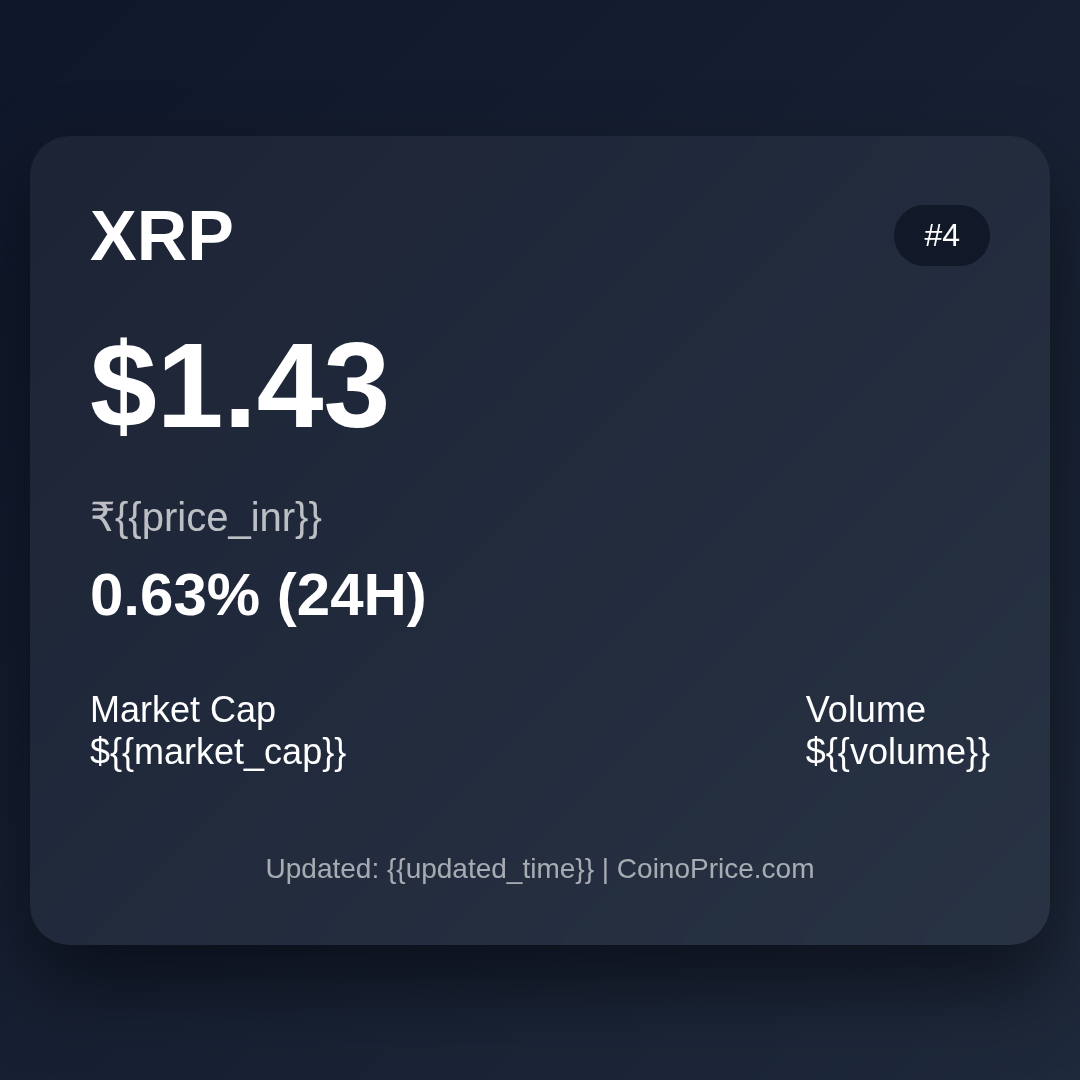
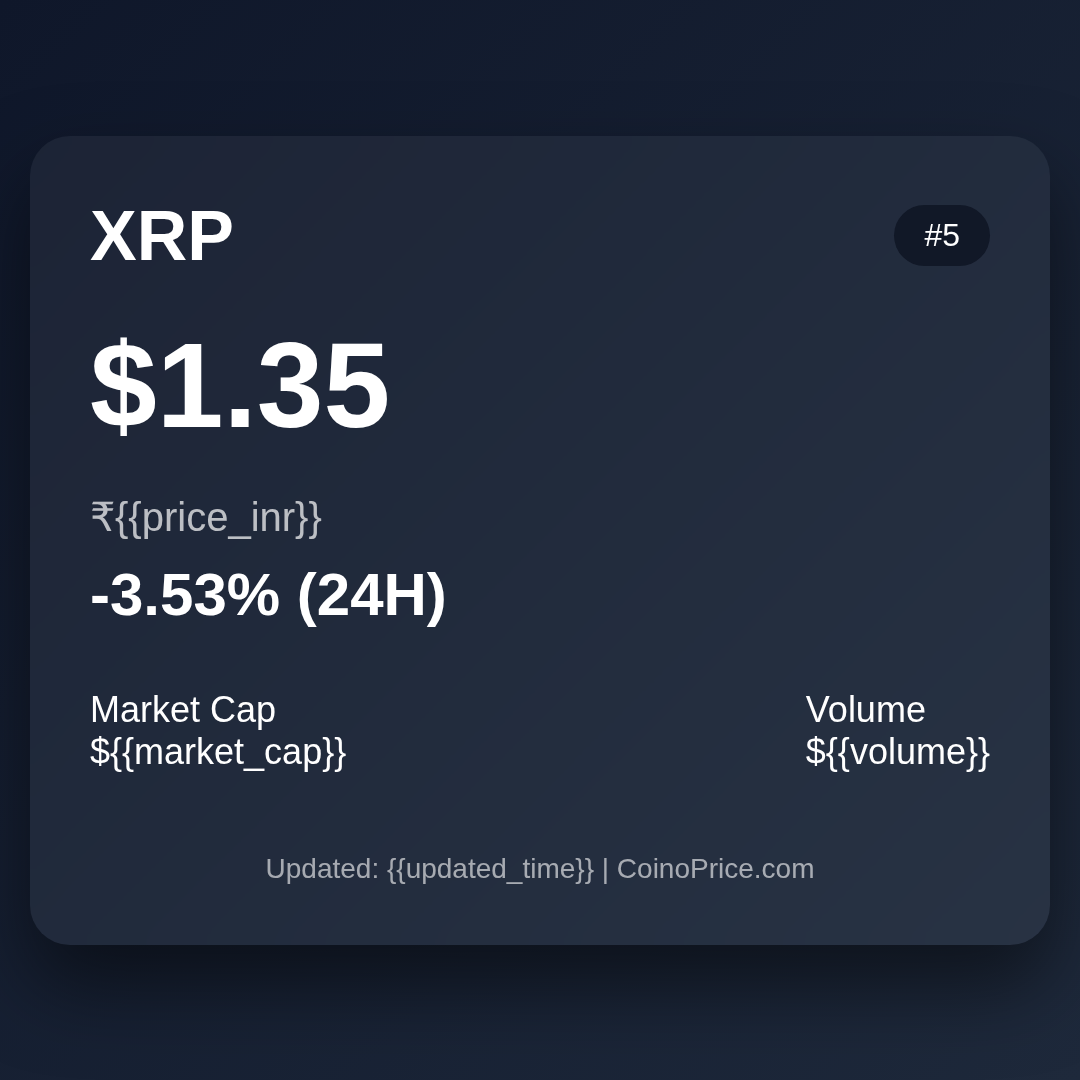
Auto crypto post update

Changed region(s): [[0.0917, 0.5194, 0.4278, 0.5806], [0.2444, 0.3056, 0.3667, 0.3972], [0.8556, 0.2139, 0.8861, 0.2444]]

diff --git a/temp.html b/temp.html
@@ -1,107 +1,109 @@
 <!DOCTYPE html>
 <html>
 <head>
-<meta charset="UTF-8">
 <style>
 body {
   margin: 0;
   width: 1080px;
   height: 1080px;
-  background: linear-gradient(135deg, #0f172a, #1e293b);
   font-family: 'Segoe UI', sans-serif;
-  color: white;
+  background: linear-gradient(135deg, #0f172a, #1e293b);
   display: flex;
-  flex-direction: column;
-  justify-content: center;
   align-items: center;
-}
-
-.title {
-  font-size: 60px;
-  font-weight: bold;
-  margin-bottom: 60px;
-}
-
-.container {
-  width: 900px;
-  display: flex;
-  justify-content: space-between;
+  justify-content: center;
+  color: white;
 }
 
 .card {
-  width: 420px;
-  padding: 40px;
-  border-radius: 30px;
-  text-align: center;
-  box-shadow: 0 20px 60px rgba(0,0,0,0.5);
+  width: 900px;
+  padding: 60px;
+  border-radius: 40px;
+  background: rgba(255,255,255,0.05);
+  backdrop-filter: blur(15px);
+  box-shadow: 0 40px 80px rgba(0,0,0,0.5);
 }
 
-.gainer {
-  background: linear-gradient(135deg, #003d2e, #00c853);
-}
-
-.loser {
-  background: linear-gradient(135deg, #3d0000, #d50000);
-}
-
-.card img {
-  width: 90px;
-  height: 90px;
-  background: white;
-  border-radius: 50%;
-  padding: 10px;
-  margin-bottom: 20px;
+.header {
+  display: flex;
+  justify-content: space-between;
+  align-items: center;
 }
 
 .coin-name {
-  font-size: 36px;
-  margin-bottom: 10px;
+  font-size: 70px;
+  font-weight: 700;
+}
+
+.rank {
+  background: #111827;
+  padding: 12px 30px;
+  border-radius: 50px;
+  font-size: 32px;
 }
 
 .price {
-  font-size: 50px;
-  margin: 20px 0;
+  font-size: 120px;
+  margin: 40px 0;
+  font-weight: 700;
+}
+
+.inr {
+  font-size: 40px;
+  opacity: 0.7;
 }
 
 .change {
-  font-size: 40px;
+  font-size: 60px;
   font-weight: bold;
+  margin-top: 20px;
+  color: {{color}};
+}
+
+.stats {
+  margin-top: 60px;
+  display: flex;
+  justify-content: space-between;
+  font-size: 36px;
 }
 
 .footer {
-  position: absolute;
-  bottom: 40px;
-  font-size: 24px;
+  margin-top: 80px;
+  font-size: 28px;
   opacity: 0.6;
+  text-align: center;
 }
 </style>
 </head>
 
 <body>
+<div class="card">
 
-<div class="title">📊 Daily Market Wrap</div>
-
-<div class="container">
-
-  <div class="card gainer">
-    <h2>🔥 Top Gainer</h2>
-    <img src="https://coin-images.coingecko.com/coins/images/34188/large/jup.png?1704266489">
-    <div class="coin-name">Jupiter</div>
-    <div class="price">$0.164851</div>
-    <div class="change">+9.68%</div>
+  <div class="header">
+    <div class="coin-name">XRP</div>
+    <div class="rank">#5</div>
   </div>
 
-  <div class="card loser">
-    <h2>🔻 Top Loser</h2>
-    <img src="https://coin-images.coingecko.com/coins/images/51589/large/pippin_logo.png?1731570163">
-    <div class="coin-name">pippin</div>
-    <div class="price">$0.578264</div>
-    <div class="change">-3.56%</div>
+  <div class="price">$1.35</div>
+  <div class="inr">₹{{price_inr}}</div>
+
+  <div class="change">-3.53% (24H)</div>
+
+  <div class="stats">
+    <div>
+      <div>Market Cap</div>
+      <div>${{market_cap}}</div>
+    </div>
+    <div>
+      <div>Volume</div>
+      <div>${{volume}}</div>
+    </div>
+  </div>
+
+  <div class="footer">
+    Updated: {{updated_time}}  
+    | CoinoPrice.com
   </div>
 
 </div>
-
-<div class="footer">CoinoPrice.com</div>
-
 </body>
 </html>
